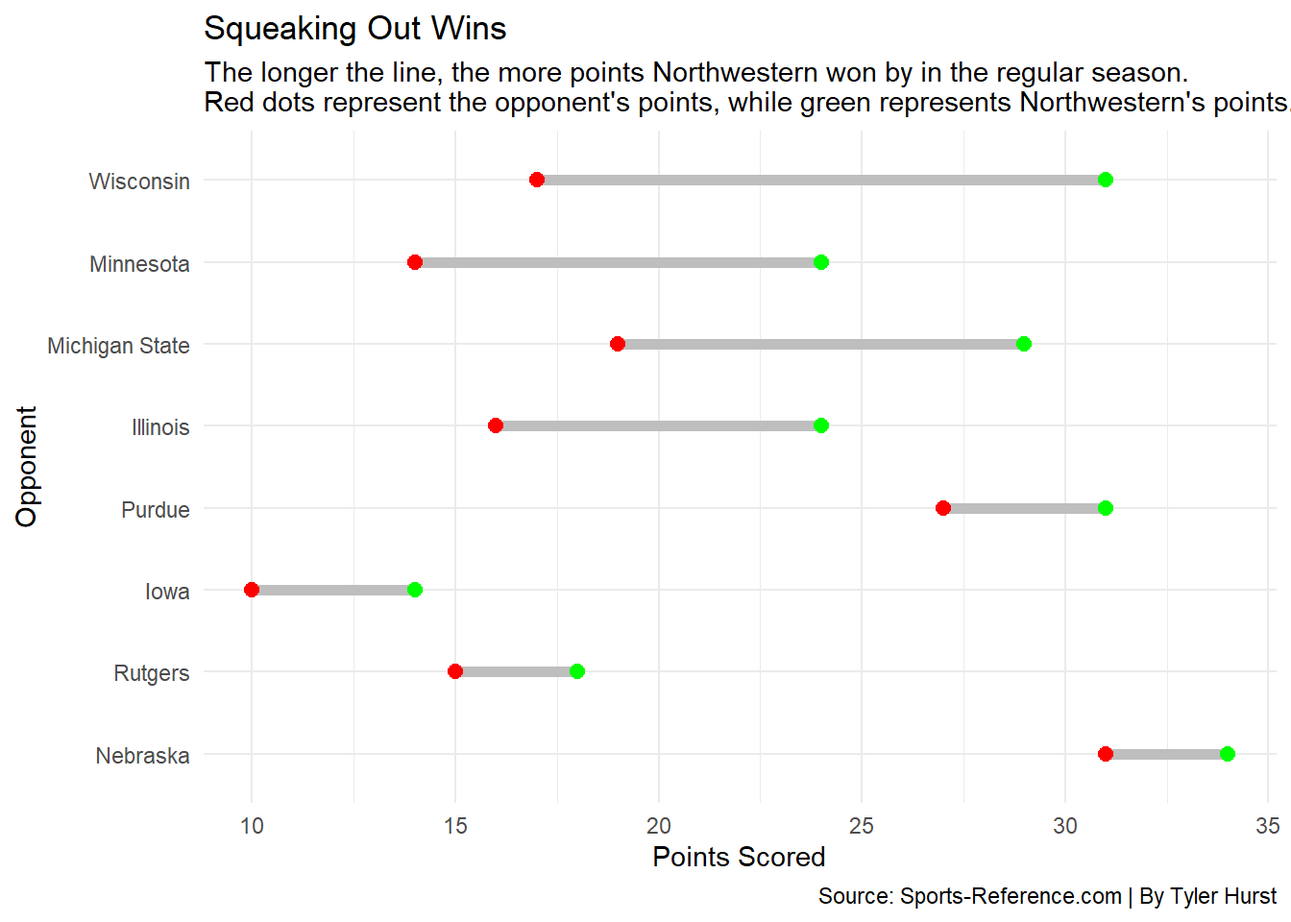
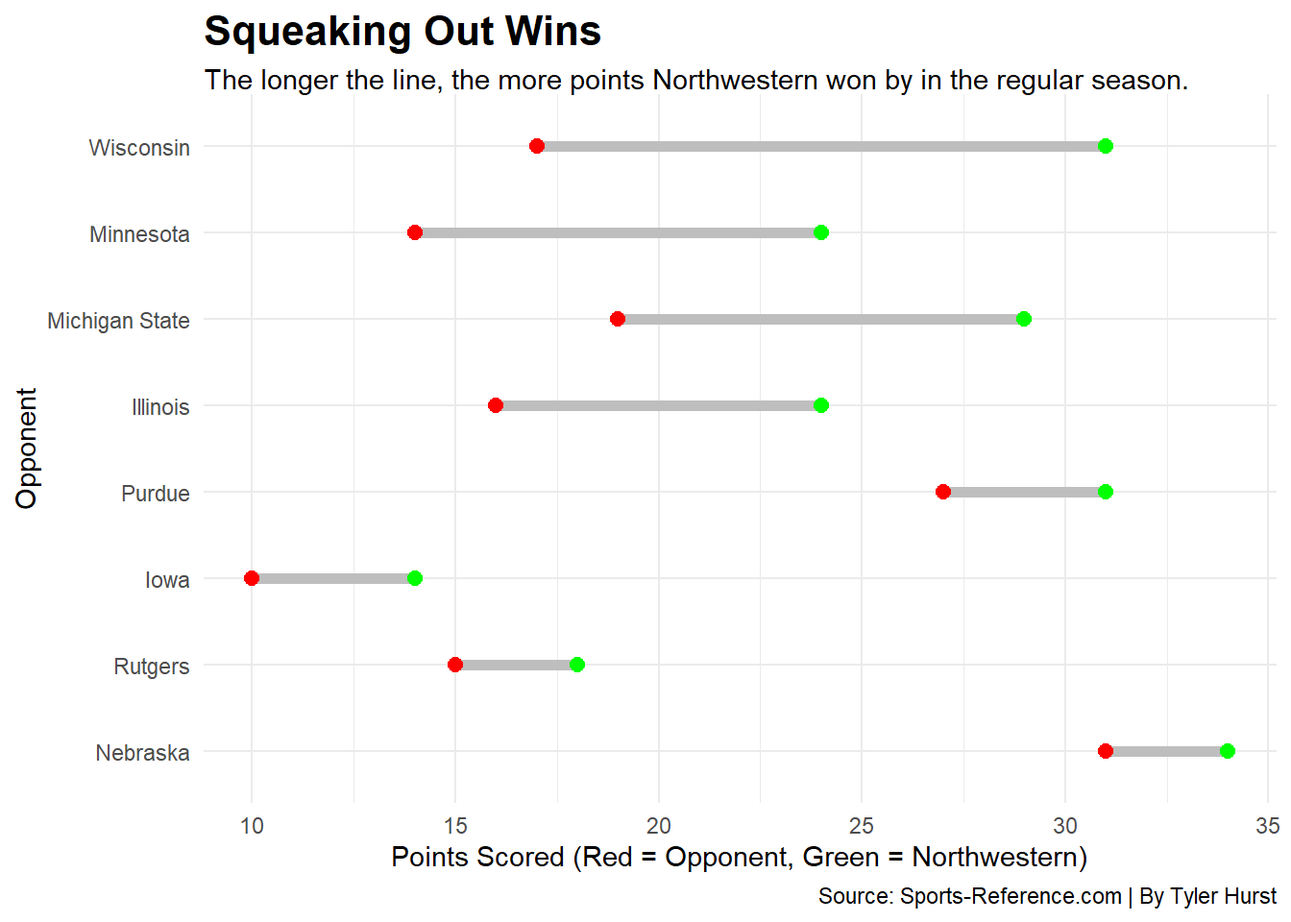
project draft five

diff --git a/posts/how-northwestern-won-the-2018-big-ten-west/index.html b/posts/how-northwestern-won-the-2018-big-ten-west/index.html
@@ -196,7 +196,7 @@ pre > code.sourceCode > span > a:first-child::before { text-decoration: underlin
 <span id="cb1-13"><a href="#cb1-13" aria-hidden="true" tabindex="-1"></a>  <span class="fu">filter</span>(Team <span class="sc">==</span> <span class="st">"Northwestern"</span>)</span>
 <span id="cb1-14"><a href="#cb1-14" aria-hidden="true" tabindex="-1"></a></span>
 <span id="cb1-15"><a href="#cb1-15" aria-hidden="true" tabindex="-1"></a><span class="fu">ggplot</span>() <span class="sc">+</span> </span>
-<span id="cb1-16"><a href="#cb1-16" aria-hidden="true" tabindex="-1"></a>  <span class="fu">geom_bump</span>(<span class="at">data=</span>BigTenWest18v2, <span class="fu">aes</span>(<span class="at">x=</span>Game, <span class="at">y=</span>Wins, <span class="at">color=</span>Team), <span class="at">alpha=</span>.<span class="dv">3</span>) <span class="sc">+</span></span>
+<span id="cb1-16"><a href="#cb1-16" aria-hidden="true" tabindex="-1"></a>  <span class="fu">geom_bump</span>(<span class="at">data=</span>BigTenWest18v2, <span class="fu">aes</span>(<span class="at">x=</span>Game, <span class="at">y=</span>Wins, <span class="at">color=</span>Team), <span class="at">alpha=</span>.<span class="dv">6</span>) <span class="sc">+</span></span>
 <span id="cb1-17"><a href="#cb1-17" aria-hidden="true" tabindex="-1"></a>  <span class="fu">geom_point</span>(<span class="at">data=</span>BigTenWest18v2, <span class="fu">aes</span>(<span class="at">x=</span>Game, <span class="at">y=</span>Wins, <span class="at">color=</span>Team), <span class="at">size =</span> <span class="dv">3</span>, <span class="at">alpha=</span>.<span class="dv">3</span>) <span class="sc">+</span></span>
 <span id="cb1-18"><a href="#cb1-18" aria-hidden="true" tabindex="-1"></a>  <span class="fu">geom_point</span>(<span class="at">data=</span>northwestern_data, <span class="fu">aes</span>(<span class="at">x=</span>Game, <span class="at">y=</span>Wins, <span class="at">color=</span>Team), <span class="at">size =</span> <span class="dv">4</span>) <span class="sc">+</span></span>
 <span id="cb1-19"><a href="#cb1-19" aria-hidden="true" tabindex="-1"></a>  <span class="fu">geom_bump</span>(<span class="at">data=</span>northwestern_data, <span class="fu">aes</span>(<span class="at">x=</span>Game, <span class="at">y=</span>Wins, <span class="at">color=</span>Team), <span class="at">size =</span> <span class="dv">1</span>) <span class="sc">+</span></span>
@@ -236,50 +236,40 @@ pre > code.sourceCode > span > a:first-child::before { text-decoration: underlin
 <span id="cb2-11"><a href="#cb2-11" aria-hidden="true" tabindex="-1"></a></span>
 <span id="cb2-12"><a href="#cb2-12" aria-hidden="true" tabindex="-1"></a>averages <span class="ot">&lt;-</span> ypp <span class="sc">|&gt;</span> <span class="fu">ungroup</span>() <span class="sc">|&gt;</span> <span class="fu">summarise</span>(<span class="at">AvgOffYardsPer =</span> <span class="fu">mean</span>(OffensiveYPP), <span class="at">AvgDefYardsPer =</span> <span class="fu">mean</span>(DefensiveYPP))</span>
 <span id="cb2-13"><a href="#cb2-13" aria-hidden="true" tabindex="-1"></a></span>
-<span id="cb2-14"><a href="#cb2-14" aria-hidden="true" tabindex="-1"></a>averages</span></code><button title="Copy to Clipboard" class="code-copy-button"><i class="bi"></i></button></pre></div>
-</details>
-<div class="cell-output cell-output-stdout">
-<pre><code># A tibble: 1 × 2
-  AvgOffYardsPer AvgDefYardsPer
-           &lt;dbl&gt;          &lt;dbl&gt;
-1           5.73           5.52</code></pre>
-</div>
-<details>
-<summary>Code</summary>
-<div class="sourceCode cell-code" id="cb4"><pre class="sourceCode r code-with-copy"><code class="sourceCode r"><span id="cb4-1"><a href="#cb4-1" aria-hidden="true" tabindex="-1"></a>west_teams <span class="ot">&lt;-</span> <span class="fu">c</span>(<span class="st">"Northwestern"</span>, <span class="st">"Illinois"</span>, <span class="st">"Iowa"</span>, <span class="st">"Minnesota"</span>, <span class="st">"Nebraska"</span>, <span class="st">"Wisconsin"</span>, <span class="st">"Purdue"</span>)</span>
-<span id="cb4-2"><a href="#cb4-2" aria-hidden="true" tabindex="-1"></a></span>
-<span id="cb4-3"><a href="#cb4-3" aria-hidden="true" tabindex="-1"></a>west <span class="ot">&lt;-</span> ypp <span class="sc">|&gt;</span> <span class="fu">filter</span>(Team <span class="sc">%in%</span> west_teams)</span>
-<span id="cb4-4"><a href="#cb4-4" aria-hidden="true" tabindex="-1"></a></span>
-<span id="cb4-5"><a href="#cb4-5" aria-hidden="true" tabindex="-1"></a>east_teams <span class="ot">&lt;-</span> <span class="fu">c</span>(<span class="st">"Ohio State"</span>, <span class="st">"Indiana"</span>, <span class="st">"Michigan"</span>, <span class="st">"Michigan State"</span>, <span class="st">"Penn State"</span>, <span class="st">"Maryland"</span>, <span class="st">"Rutgers"</span>)</span>
-<span id="cb4-6"><a href="#cb4-6" aria-hidden="true" tabindex="-1"></a></span>
-<span id="cb4-7"><a href="#cb4-7" aria-hidden="true" tabindex="-1"></a>east <span class="ot">&lt;-</span> ypp <span class="sc">|&gt;</span> <span class="fu">filter</span>(Team <span class="sc">%in%</span> east_teams)</span>
-<span id="cb4-8"><a href="#cb4-8" aria-hidden="true" tabindex="-1"></a></span>
-<span id="cb4-9"><a href="#cb4-9" aria-hidden="true" tabindex="-1"></a>team_colors <span class="ot">&lt;-</span> <span class="fu">c</span>(<span class="st">"Illinois"</span> <span class="ot">=</span> <span class="st">"#E84A27"</span>, <span class="st">"Iowa"</span> <span class="ot">=</span> <span class="st">"#FFCD00"</span>, <span class="st">"Minnesota"</span> <span class="ot">=</span> <span class="st">"#7A0019"</span>, <span class="st">"Nebraska"</span> <span class="ot">=</span> <span class="st">"#E41C38"</span>, <span class="st">"Northwestern"</span> <span class="ot">=</span> <span class="st">"#4E2A84"</span>, <span class="st">"Purdue"</span> <span class="ot">=</span> <span class="st">"#CEB888"</span>, <span class="st">"Wisconsin"</span> <span class="ot">=</span> <span class="st">"#C5050C"</span>)</span>
-<span id="cb4-10"><a href="#cb4-10" aria-hidden="true" tabindex="-1"></a></span>
-<span id="cb4-11"><a href="#cb4-11" aria-hidden="true" tabindex="-1"></a> <span class="fu">ggplot</span>() <span class="sc">+</span> </span>
-<span id="cb4-12"><a href="#cb4-12" aria-hidden="true" tabindex="-1"></a>  <span class="fu">geom_point</span>(<span class="at">data=</span>east, <span class="fu">aes</span>(<span class="at">x=</span>OffensiveYPP, <span class="at">y=</span>DefensiveYPP), <span class="at">color=</span><span class="st">"light grey"</span>, <span class="at">size =</span> <span class="fl">1.4</span>) <span class="sc">+</span></span>
-<span id="cb4-13"><a href="#cb4-13" aria-hidden="true" tabindex="-1"></a>  <span class="fu">geom_point</span>(<span class="at">data=</span>west, <span class="fu">aes</span>(<span class="at">x=</span>OffensiveYPP, <span class="at">y=</span>DefensiveYPP)) <span class="sc">+</span></span>
-<span id="cb4-14"><a href="#cb4-14" aria-hidden="true" tabindex="-1"></a>  <span class="fu">geom_hline</span>(<span class="at">yintercept=</span><span class="fl">5.524939</span>, <span class="at">color=</span><span class="st">"dark grey"</span>) <span class="sc">+</span> </span>
-<span id="cb4-15"><a href="#cb4-15" aria-hidden="true" tabindex="-1"></a>  <span class="fu">geom_vline</span>(<span class="at">xintercept=</span><span class="fl">5.726772</span>, <span class="at">color=</span><span class="st">"dark grey"</span>) <span class="sc">+</span></span>
-<span id="cb4-16"><a href="#cb4-16" aria-hidden="true" tabindex="-1"></a>  <span class="fu">geom_text</span>(<span class="fu">aes</span>(<span class="at">x=</span><span class="fl">6.25</span>, <span class="at">y=</span><span class="dv">5</span>, <span class="at">label=</span><span class="st">"Good Offense, Good Defense"</span>), <span class="at">color=</span><span class="st">"#151515"</span>, <span class="at">size =</span> <span class="fl">2.5</span>) <span class="sc">+</span></span>
-<span id="cb4-17"><a href="#cb4-17" aria-hidden="true" tabindex="-1"></a>  <span class="fu">geom_text</span>(<span class="fu">aes</span>(<span class="at">x=</span><span class="fl">4.75</span>, <span class="at">y=</span><span class="dv">5</span>, <span class="at">label=</span><span class="st">"Bad Offense, Good Defense"</span>), <span class="at">color=</span><span class="st">"#151515"</span>, <span class="at">size =</span> <span class="fl">2.5</span>) <span class="sc">+</span></span>
-<span id="cb4-18"><a href="#cb4-18" aria-hidden="true" tabindex="-1"></a>  <span class="fu">geom_text</span>(<span class="fu">aes</span>(<span class="at">x=</span><span class="fl">4.75</span>, <span class="at">y=</span><span class="fl">6.5</span>, <span class="at">label=</span><span class="st">"Bad Defense, Bad Offense"</span>), <span class="at">color=</span><span class="st">"#151515"</span>, <span class="at">size =</span> <span class="fl">2.5</span>) <span class="sc">+</span></span>
-<span id="cb4-19"><a href="#cb4-19" aria-hidden="true" tabindex="-1"></a>  <span class="fu">geom_text</span>(<span class="fu">aes</span>(<span class="at">x=</span><span class="fl">6.25</span>, <span class="at">y=</span><span class="fl">6.5</span>, <span class="at">label=</span><span class="st">"Bad Defense, Good Offense"</span>), <span class="at">color=</span><span class="st">"#151515"</span>, <span class="at">size =</span> <span class="fl">2.5</span>) <span class="sc">+</span></span>
-<span id="cb4-20"><a href="#cb4-20" aria-hidden="true" tabindex="-1"></a>  <span class="fu">geom_text_repel</span>(<span class="at">data=</span>west, <span class="fu">aes</span>(<span class="at">x=</span>OffensiveYPP, <span class="at">y=</span>DefensiveYPP, <span class="at">label=</span>Team, <span class="at">color=</span>Team)) <span class="sc">+</span></span>
-<span id="cb4-21"><a href="#cb4-21" aria-hidden="true" tabindex="-1"></a>  <span class="fu">geom_text_repel</span>(<span class="at">data=</span>east, <span class="fu">aes</span>(<span class="at">x=</span>OffensiveYPP, <span class="at">y=</span>DefensiveYPP, <span class="at">label=</span>Team, <span class="at">color=</span>Team), <span class="at">size =</span> <span class="fl">2.8</span>) <span class="sc">+</span></span>
-<span id="cb4-22"><a href="#cb4-22" aria-hidden="true" tabindex="-1"></a>  <span class="fu">labs</span>(<span class="at">x=</span><span class="st">"Average Offensive Yards Per Play"</span>, <span class="at">y=</span><span class="st">"Average Defensive Yards Per Play"</span>, <span class="at">title=</span><span class="st">"Nobody Said It Would Be Pretty"</span>, <span class="at">subtitle=</span><span class="st">"Despite the title of Big Ten West divison champions, Northwestern ranked near the bottom</span><span class="sc">\n</span><span class="st">in offensive yards per play and sported a sub-par defense, compared to other conference teams"</span>, <span class="at">caption=</span><span class="st">"Source: Sports-Reference.com | By Tyler Hurst"</span>) <span class="sc">+</span></span>
-<span id="cb4-23"><a href="#cb4-23" aria-hidden="true" tabindex="-1"></a>  <span class="fu">scale_color_manual</span>(<span class="at">values =</span> team_colors) <span class="sc">+</span></span>
-<span id="cb4-24"><a href="#cb4-24" aria-hidden="true" tabindex="-1"></a>  <span class="fu">theme_minimal</span>() <span class="sc">+</span> </span>
-<span id="cb4-25"><a href="#cb4-25" aria-hidden="true" tabindex="-1"></a>  <span class="fu">theme</span>(</span>
-<span id="cb4-26"><a href="#cb4-26" aria-hidden="true" tabindex="-1"></a>    <span class="at">plot.title =</span> <span class="fu">element_text</span>(<span class="at">size =</span> <span class="dv">16</span>, <span class="at">face =</span> <span class="st">"bold"</span>),</span>
-<span id="cb4-27"><a href="#cb4-27" aria-hidden="true" tabindex="-1"></a>    <span class="at">plot.subtitle =</span> <span class="fu">element_text</span>(<span class="at">size =</span> <span class="dv">10</span>),</span>
-<span id="cb4-28"><a href="#cb4-28" aria-hidden="true" tabindex="-1"></a>    <span class="at">plot.caption =</span> <span class="fu">element_text</span>(<span class="at">size =</span> <span class="dv">7</span>),</span>
-<span id="cb4-29"><a href="#cb4-29" aria-hidden="true" tabindex="-1"></a>    <span class="at">axis.title =</span> <span class="fu">element_text</span>(<span class="at">size =</span> <span class="dv">8</span>),</span>
-<span id="cb4-30"><a href="#cb4-30" aria-hidden="true" tabindex="-1"></a>    <span class="at">axis.text =</span> <span class="fu">element_text</span>(<span class="at">size =</span> <span class="dv">6</span>),</span>
-<span id="cb4-31"><a href="#cb4-31" aria-hidden="true" tabindex="-1"></a>    <span class="at">axis.ticks =</span> <span class="fu">element_blank</span>(),</span>
-<span id="cb4-32"><a href="#cb4-32" aria-hidden="true" tabindex="-1"></a>    <span class="at">panel.grid.minor =</span> <span class="fu">element_blank</span>(),</span>
-<span id="cb4-33"><a href="#cb4-33" aria-hidden="true" tabindex="-1"></a>    <span class="at">panel.grid.major.x =</span> <span class="fu">element_blank</span>()</span>
-<span id="cb4-34"><a href="#cb4-34" aria-hidden="true" tabindex="-1"></a>  )</span></code><button title="Copy to Clipboard" class="code-copy-button"><i class="bi"></i></button></pre></div>
+<span id="cb2-14"><a href="#cb2-14" aria-hidden="true" tabindex="-1"></a>west_teams <span class="ot">&lt;-</span> <span class="fu">c</span>(<span class="st">"Northwestern"</span>, <span class="st">"Illinois"</span>, <span class="st">"Iowa"</span>, <span class="st">"Minnesota"</span>, <span class="st">"Nebraska"</span>, <span class="st">"Wisconsin"</span>, <span class="st">"Purdue"</span>)</span>
+<span id="cb2-15"><a href="#cb2-15" aria-hidden="true" tabindex="-1"></a></span>
+<span id="cb2-16"><a href="#cb2-16" aria-hidden="true" tabindex="-1"></a>west <span class="ot">&lt;-</span> ypp <span class="sc">|&gt;</span> <span class="fu">filter</span>(Team <span class="sc">%in%</span> west_teams)</span>
+<span id="cb2-17"><a href="#cb2-17" aria-hidden="true" tabindex="-1"></a></span>
+<span id="cb2-18"><a href="#cb2-18" aria-hidden="true" tabindex="-1"></a>east_teams <span class="ot">&lt;-</span> <span class="fu">c</span>(<span class="st">"Ohio State"</span>, <span class="st">"Indiana"</span>, <span class="st">"Michigan"</span>, <span class="st">"Michigan State"</span>, <span class="st">"Penn State"</span>, <span class="st">"Maryland"</span>, <span class="st">"Rutgers"</span>)</span>
+<span id="cb2-19"><a href="#cb2-19" aria-hidden="true" tabindex="-1"></a></span>
+<span id="cb2-20"><a href="#cb2-20" aria-hidden="true" tabindex="-1"></a>east <span class="ot">&lt;-</span> ypp <span class="sc">|&gt;</span> <span class="fu">filter</span>(Team <span class="sc">%in%</span> east_teams)</span>
+<span id="cb2-21"><a href="#cb2-21" aria-hidden="true" tabindex="-1"></a></span>
+<span id="cb2-22"><a href="#cb2-22" aria-hidden="true" tabindex="-1"></a>team_colors <span class="ot">&lt;-</span> <span class="fu">c</span>(<span class="st">"Illinois"</span> <span class="ot">=</span> <span class="st">"#E84A27"</span>, <span class="st">"Iowa"</span> <span class="ot">=</span> <span class="st">"#FFCD00"</span>, <span class="st">"Minnesota"</span> <span class="ot">=</span> <span class="st">"#7A0019"</span>, <span class="st">"Nebraska"</span> <span class="ot">=</span> <span class="st">"#E41C38"</span>, <span class="st">"Northwestern"</span> <span class="ot">=</span> <span class="st">"#4E2A84"</span>, <span class="st">"Purdue"</span> <span class="ot">=</span> <span class="st">"#CEB888"</span>, <span class="st">"Wisconsin"</span> <span class="ot">=</span> <span class="st">"#C5050C"</span>)</span>
+<span id="cb2-23"><a href="#cb2-23" aria-hidden="true" tabindex="-1"></a></span>
+<span id="cb2-24"><a href="#cb2-24" aria-hidden="true" tabindex="-1"></a> <span class="fu">ggplot</span>() <span class="sc">+</span> </span>
+<span id="cb2-25"><a href="#cb2-25" aria-hidden="true" tabindex="-1"></a>  <span class="fu">geom_point</span>(<span class="at">data=</span>east, <span class="fu">aes</span>(<span class="at">x=</span>OffensiveYPP, <span class="at">y=</span>DefensiveYPP), <span class="at">color=</span><span class="st">"light grey"</span>, <span class="at">size =</span> <span class="fl">1.4</span>) <span class="sc">+</span></span>
+<span id="cb2-26"><a href="#cb2-26" aria-hidden="true" tabindex="-1"></a>  <span class="fu">geom_point</span>(<span class="at">data=</span>west, <span class="fu">aes</span>(<span class="at">x=</span>OffensiveYPP, <span class="at">y=</span>DefensiveYPP)) <span class="sc">+</span></span>
+<span id="cb2-27"><a href="#cb2-27" aria-hidden="true" tabindex="-1"></a>  <span class="fu">geom_hline</span>(<span class="at">yintercept=</span><span class="fl">5.524939</span>, <span class="at">color=</span><span class="st">"dark grey"</span>) <span class="sc">+</span> </span>
+<span id="cb2-28"><a href="#cb2-28" aria-hidden="true" tabindex="-1"></a>  <span class="fu">geom_vline</span>(<span class="at">xintercept=</span><span class="fl">5.726772</span>, <span class="at">color=</span><span class="st">"dark grey"</span>) <span class="sc">+</span></span>
+<span id="cb2-29"><a href="#cb2-29" aria-hidden="true" tabindex="-1"></a>  <span class="fu">geom_text</span>(<span class="fu">aes</span>(<span class="at">x=</span><span class="fl">6.25</span>, <span class="at">y=</span><span class="dv">5</span>, <span class="at">label=</span><span class="st">"Good Offense, Good Defense"</span>), <span class="at">color=</span><span class="st">"#151515"</span>, <span class="at">size =</span> <span class="fl">2.5</span>) <span class="sc">+</span></span>
+<span id="cb2-30"><a href="#cb2-30" aria-hidden="true" tabindex="-1"></a>  <span class="fu">geom_text</span>(<span class="fu">aes</span>(<span class="at">x=</span><span class="fl">4.75</span>, <span class="at">y=</span><span class="dv">5</span>, <span class="at">label=</span><span class="st">"Bad Offense, Good Defense"</span>), <span class="at">color=</span><span class="st">"#151515"</span>, <span class="at">size =</span> <span class="fl">2.5</span>) <span class="sc">+</span></span>
+<span id="cb2-31"><a href="#cb2-31" aria-hidden="true" tabindex="-1"></a>  <span class="fu">geom_text</span>(<span class="fu">aes</span>(<span class="at">x=</span><span class="fl">4.75</span>, <span class="at">y=</span><span class="fl">6.5</span>, <span class="at">label=</span><span class="st">"Bad Defense, Bad Offense"</span>), <span class="at">color=</span><span class="st">"#151515"</span>, <span class="at">size =</span> <span class="fl">2.5</span>) <span class="sc">+</span></span>
+<span id="cb2-32"><a href="#cb2-32" aria-hidden="true" tabindex="-1"></a>  <span class="fu">geom_text</span>(<span class="fu">aes</span>(<span class="at">x=</span><span class="fl">6.25</span>, <span class="at">y=</span><span class="fl">6.5</span>, <span class="at">label=</span><span class="st">"Bad Defense, Good Offense"</span>), <span class="at">color=</span><span class="st">"#151515"</span>, <span class="at">size =</span> <span class="fl">2.5</span>) <span class="sc">+</span></span>
+<span id="cb2-33"><a href="#cb2-33" aria-hidden="true" tabindex="-1"></a>  <span class="fu">geom_text_repel</span>(<span class="at">data=</span>west, <span class="fu">aes</span>(<span class="at">x=</span>OffensiveYPP, <span class="at">y=</span>DefensiveYPP, <span class="at">label=</span>Team, <span class="at">color=</span>Team)) <span class="sc">+</span></span>
+<span id="cb2-34"><a href="#cb2-34" aria-hidden="true" tabindex="-1"></a>  <span class="fu">geom_text_repel</span>(<span class="at">data=</span>east, <span class="fu">aes</span>(<span class="at">x=</span>OffensiveYPP, <span class="at">y=</span>DefensiveYPP, <span class="at">label=</span>Team, <span class="at">color=</span>Team), <span class="at">size =</span> <span class="fl">2.8</span>) <span class="sc">+</span></span>
+<span id="cb2-35"><a href="#cb2-35" aria-hidden="true" tabindex="-1"></a>  <span class="fu">labs</span>(<span class="at">x=</span><span class="st">"Average Offensive Yards Per Play"</span>, <span class="at">y=</span><span class="st">"Average Defensive Yards Per Play"</span>, <span class="at">title=</span><span class="st">"Nobody Said It Would Be Pretty"</span>, <span class="at">subtitle=</span><span class="st">"Despite the title of Big Ten West divison champions, Northwestern ranked near the bottom</span><span class="sc">\n</span><span class="st">in offensive yards per play and sported a sub-par defense, compared to other conference teams"</span>, <span class="at">caption=</span><span class="st">"Source: Sports-Reference.com | By Tyler Hurst"</span>) <span class="sc">+</span></span>
+<span id="cb2-36"><a href="#cb2-36" aria-hidden="true" tabindex="-1"></a>  <span class="fu">scale_color_manual</span>(<span class="at">values =</span> team_colors) <span class="sc">+</span></span>
+<span id="cb2-37"><a href="#cb2-37" aria-hidden="true" tabindex="-1"></a>  <span class="fu">theme_minimal</span>() <span class="sc">+</span> </span>
+<span id="cb2-38"><a href="#cb2-38" aria-hidden="true" tabindex="-1"></a>  <span class="fu">theme</span>(</span>
+<span id="cb2-39"><a href="#cb2-39" aria-hidden="true" tabindex="-1"></a>    <span class="at">plot.title =</span> <span class="fu">element_text</span>(<span class="at">size =</span> <span class="dv">16</span>, <span class="at">face =</span> <span class="st">"bold"</span>),</span>
+<span id="cb2-40"><a href="#cb2-40" aria-hidden="true" tabindex="-1"></a>    <span class="at">plot.subtitle =</span> <span class="fu">element_text</span>(<span class="at">size =</span> <span class="dv">10</span>),</span>
+<span id="cb2-41"><a href="#cb2-41" aria-hidden="true" tabindex="-1"></a>    <span class="at">plot.caption =</span> <span class="fu">element_text</span>(<span class="at">size =</span> <span class="dv">7</span>),</span>
+<span id="cb2-42"><a href="#cb2-42" aria-hidden="true" tabindex="-1"></a>    <span class="at">axis.title =</span> <span class="fu">element_text</span>(<span class="at">size =</span> <span class="dv">8</span>),</span>
+<span id="cb2-43"><a href="#cb2-43" aria-hidden="true" tabindex="-1"></a>    <span class="at">axis.text =</span> <span class="fu">element_text</span>(<span class="at">size =</span> <span class="dv">6</span>),</span>
+<span id="cb2-44"><a href="#cb2-44" aria-hidden="true" tabindex="-1"></a>    <span class="at">axis.ticks =</span> <span class="fu">element_blank</span>(),</span>
+<span id="cb2-45"><a href="#cb2-45" aria-hidden="true" tabindex="-1"></a>    <span class="at">panel.grid.minor =</span> <span class="fu">element_blank</span>(),</span>
+<span id="cb2-46"><a href="#cb2-46" aria-hidden="true" tabindex="-1"></a>    <span class="at">panel.grid.major.x =</span> <span class="fu">element_blank</span>()</span>
+<span id="cb2-47"><a href="#cb2-47" aria-hidden="true" tabindex="-1"></a>  )</span></code><button title="Copy to Clipboard" class="code-copy-button"><i class="bi"></i></button></pre></div>
 </details>
 <div class="cell-output-display">
 <p><img src="index_files/figure-html/unnamed-chunk-2-1.png" class="img-fluid" width="672"></p>
@@ -289,25 +279,25 @@ pre > code.sourceCode > span > a:first-child::before { text-decoration: underlin
 <div class="cell">
 <details>
 <summary>Code</summary>
-<div class="sourceCode cell-code" id="cb5"><pre class="sourceCode r code-with-copy"><code class="sourceCode r"><span id="cb5-1"><a href="#cb5-1" aria-hidden="true" tabindex="-1"></a><span class="fu">ggplot</span>() <span class="sc">+</span> </span>
-<span id="cb5-2"><a href="#cb5-2" aria-hidden="true" tabindex="-1"></a>  <span class="fu">geom_dumbbell</span>(</span>
-<span id="cb5-3"><a href="#cb5-3" aria-hidden="true" tabindex="-1"></a>    <span class="at">data=</span>NorthwesternWinScoreDiff,</span>
-<span id="cb5-4"><a href="#cb5-4" aria-hidden="true" tabindex="-1"></a>    <span class="fu">aes</span>(<span class="at">y=</span><span class="fu">reorder</span>(Opponent, ScoreDiff), <span class="at">x=</span>TeamPts, <span class="at">xend=</span>OppPts),</span>
-<span id="cb5-5"><a href="#cb5-5" aria-hidden="true" tabindex="-1"></a>    <span class="at">size =</span> <span class="dv">2</span>,</span>
-<span id="cb5-6"><a href="#cb5-6" aria-hidden="true" tabindex="-1"></a>    <span class="at">colour =</span> <span class="st">"grey"</span>,</span>
-<span id="cb5-7"><a href="#cb5-7" aria-hidden="true" tabindex="-1"></a>    <span class="at">colour_x =</span> <span class="st">"green"</span>,</span>
-<span id="cb5-8"><a href="#cb5-8" aria-hidden="true" tabindex="-1"></a>    <span class="at">colour_xend =</span> <span class="st">"red"</span>) <span class="sc">+</span></span>
-<span id="cb5-9"><a href="#cb5-9" aria-hidden="true" tabindex="-1"></a>  <span class="fu">labs</span>(</span>
-<span id="cb5-10"><a href="#cb5-10" aria-hidden="true" tabindex="-1"></a>    <span class="at">title=</span><span class="st">"Squeaking Out Wins"</span>,</span>
-<span id="cb5-11"><a href="#cb5-11" aria-hidden="true" tabindex="-1"></a>    <span class="at">subtitle =</span> <span class="st">"The longer the line, the more points Northwestern won by in the regular season.</span><span class="sc">\n</span><span class="st">Red dots represent the opponent's points, while green represents Northwestern's points."</span>,</span>
-<span id="cb5-12"><a href="#cb5-12" aria-hidden="true" tabindex="-1"></a>    <span class="at">x =</span> <span class="st">"Points Scored"</span>,</span>
-<span id="cb5-13"><a href="#cb5-13" aria-hidden="true" tabindex="-1"></a>    <span class="at">y =</span> <span class="st">"Opponent"</span>,</span>
-<span id="cb5-14"><a href="#cb5-14" aria-hidden="true" tabindex="-1"></a>    <span class="at">caption=</span><span class="st">"Source: Sports-Reference.com | By Tyler Hurst"</span>) <span class="sc">+</span> </span>
-<span id="cb5-15"><a href="#cb5-15" aria-hidden="true" tabindex="-1"></a>  <span class="fu">theme</span>(</span>
-<span id="cb5-16"><a href="#cb5-16" aria-hidden="true" tabindex="-1"></a>    <span class="at">plot.title =</span> <span class="fu">element_text</span>(<span class="at">size =</span> <span class="dv">16</span>, <span class="at">face =</span> <span class="st">"bold"</span>),</span>
-<span id="cb5-17"><a href="#cb5-17" aria-hidden="true" tabindex="-1"></a>    <span class="at">plot.subtitle =</span> <span class="fu">element_textbox_simple</span>(),</span>
-<span id="cb5-18"><a href="#cb5-18" aria-hidden="true" tabindex="-1"></a>  ) <span class="sc">+</span></span>
-<span id="cb5-19"><a href="#cb5-19" aria-hidden="true" tabindex="-1"></a>  <span class="fu">theme_minimal</span>()</span></code><button title="Copy to Clipboard" class="code-copy-button"><i class="bi"></i></button></pre></div>
+<div class="sourceCode cell-code" id="cb3"><pre class="sourceCode r code-with-copy"><code class="sourceCode r"><span id="cb3-1"><a href="#cb3-1" aria-hidden="true" tabindex="-1"></a><span class="fu">ggplot</span>() <span class="sc">+</span> </span>
+<span id="cb3-2"><a href="#cb3-2" aria-hidden="true" tabindex="-1"></a>  <span class="fu">geom_dumbbell</span>(</span>
+<span id="cb3-3"><a href="#cb3-3" aria-hidden="true" tabindex="-1"></a>    <span class="at">data=</span>NorthwesternWinScoreDiff,</span>
+<span id="cb3-4"><a href="#cb3-4" aria-hidden="true" tabindex="-1"></a>    <span class="fu">aes</span>(<span class="at">y=</span><span class="fu">reorder</span>(Opponent, ScoreDiff), <span class="at">x=</span>TeamPts, <span class="at">xend=</span>OppPts),</span>
+<span id="cb3-5"><a href="#cb3-5" aria-hidden="true" tabindex="-1"></a>    <span class="at">size =</span> <span class="dv">2</span>,</span>
+<span id="cb3-6"><a href="#cb3-6" aria-hidden="true" tabindex="-1"></a>    <span class="at">colour =</span> <span class="st">"grey"</span>,</span>
+<span id="cb3-7"><a href="#cb3-7" aria-hidden="true" tabindex="-1"></a>    <span class="at">colour_x =</span> <span class="st">"green"</span>,</span>
+<span id="cb3-8"><a href="#cb3-8" aria-hidden="true" tabindex="-1"></a>    <span class="at">colour_xend =</span> <span class="st">"red"</span>) <span class="sc">+</span></span>
+<span id="cb3-9"><a href="#cb3-9" aria-hidden="true" tabindex="-1"></a>  <span class="fu">theme_minimal</span>() <span class="sc">+</span></span>
+<span id="cb3-10"><a href="#cb3-10" aria-hidden="true" tabindex="-1"></a>  <span class="fu">labs</span>(</span>
+<span id="cb3-11"><a href="#cb3-11" aria-hidden="true" tabindex="-1"></a>    <span class="at">title=</span><span class="st">"Squeaking Out Wins"</span>,</span>
+<span id="cb3-12"><a href="#cb3-12" aria-hidden="true" tabindex="-1"></a>    <span class="at">subtitle =</span> <span class="st">"The longer the line, the more points Northwestern won by in the regular season."</span>,</span>
+<span id="cb3-13"><a href="#cb3-13" aria-hidden="true" tabindex="-1"></a>    <span class="at">x =</span> <span class="st">"Points Scored (Red = Opponent, Green = Northwestern)"</span>,</span>
+<span id="cb3-14"><a href="#cb3-14" aria-hidden="true" tabindex="-1"></a>    <span class="at">y =</span> <span class="st">"Opponent"</span>,</span>
+<span id="cb3-15"><a href="#cb3-15" aria-hidden="true" tabindex="-1"></a>    <span class="at">caption=</span><span class="st">"Source: Sports-Reference.com | By Tyler Hurst"</span>) <span class="sc">+</span> </span>
+<span id="cb3-16"><a href="#cb3-16" aria-hidden="true" tabindex="-1"></a>  <span class="fu">theme</span>(</span>
+<span id="cb3-17"><a href="#cb3-17" aria-hidden="true" tabindex="-1"></a>    <span class="at">plot.title =</span> <span class="fu">element_text</span>(<span class="at">size =</span> <span class="dv">16</span>, <span class="at">face =</span> <span class="st">"bold"</span>),</span>
+<span id="cb3-18"><a href="#cb3-18" aria-hidden="true" tabindex="-1"></a>    <span class="at">plot.subtitle =</span> <span class="fu">element_textbox_simple</span>(),</span>
+<span id="cb3-19"><a href="#cb3-19" aria-hidden="true" tabindex="-1"></a>  ) </span></code><button title="Copy to Clipboard" class="code-copy-button"><i class="bi"></i></button></pre></div>
 </details>
 <div class="cell-output-display">
 <p><img src="index_files/figure-html/unnamed-chunk-3-1.png" class="img-fluid" width="672"></p>

diff --git a/index.html b/index.html
@@ -165,7 +165,7 @@ ul.task-list li input[type="checkbox"] {
 
 <div class="quarto-listing quarto-listing-container-default" id="listing-listing">
 <div class="list quarto-listing-default">
-<div class="quarto-post image-right" data-index="0" data-categories="collegefootball,northwestern,big ten" data-listing-date-sort="1699768800000" data-listing-file-modified-sort="1699848081682" data-listing-date-modified-sort="NaN" data-listing-reading-time-sort="4">
+<div class="quarto-post image-right" data-index="0" data-categories="collegefootball,northwestern,big ten" data-listing-date-sort="1699768800000" data-listing-file-modified-sort="1699850688623" data-listing-date-modified-sort="NaN" data-listing-reading-time-sort="4">
 <div class="thumbnail">
 <p><a href="./posts/how-northwestern-won-the-2018-big-ten-west/index.html"> <img src="./posts/how-northwestern-won-the-2018-big-ten-west/image.png" class="thumbnail-image"> </a></p>
 </div>
